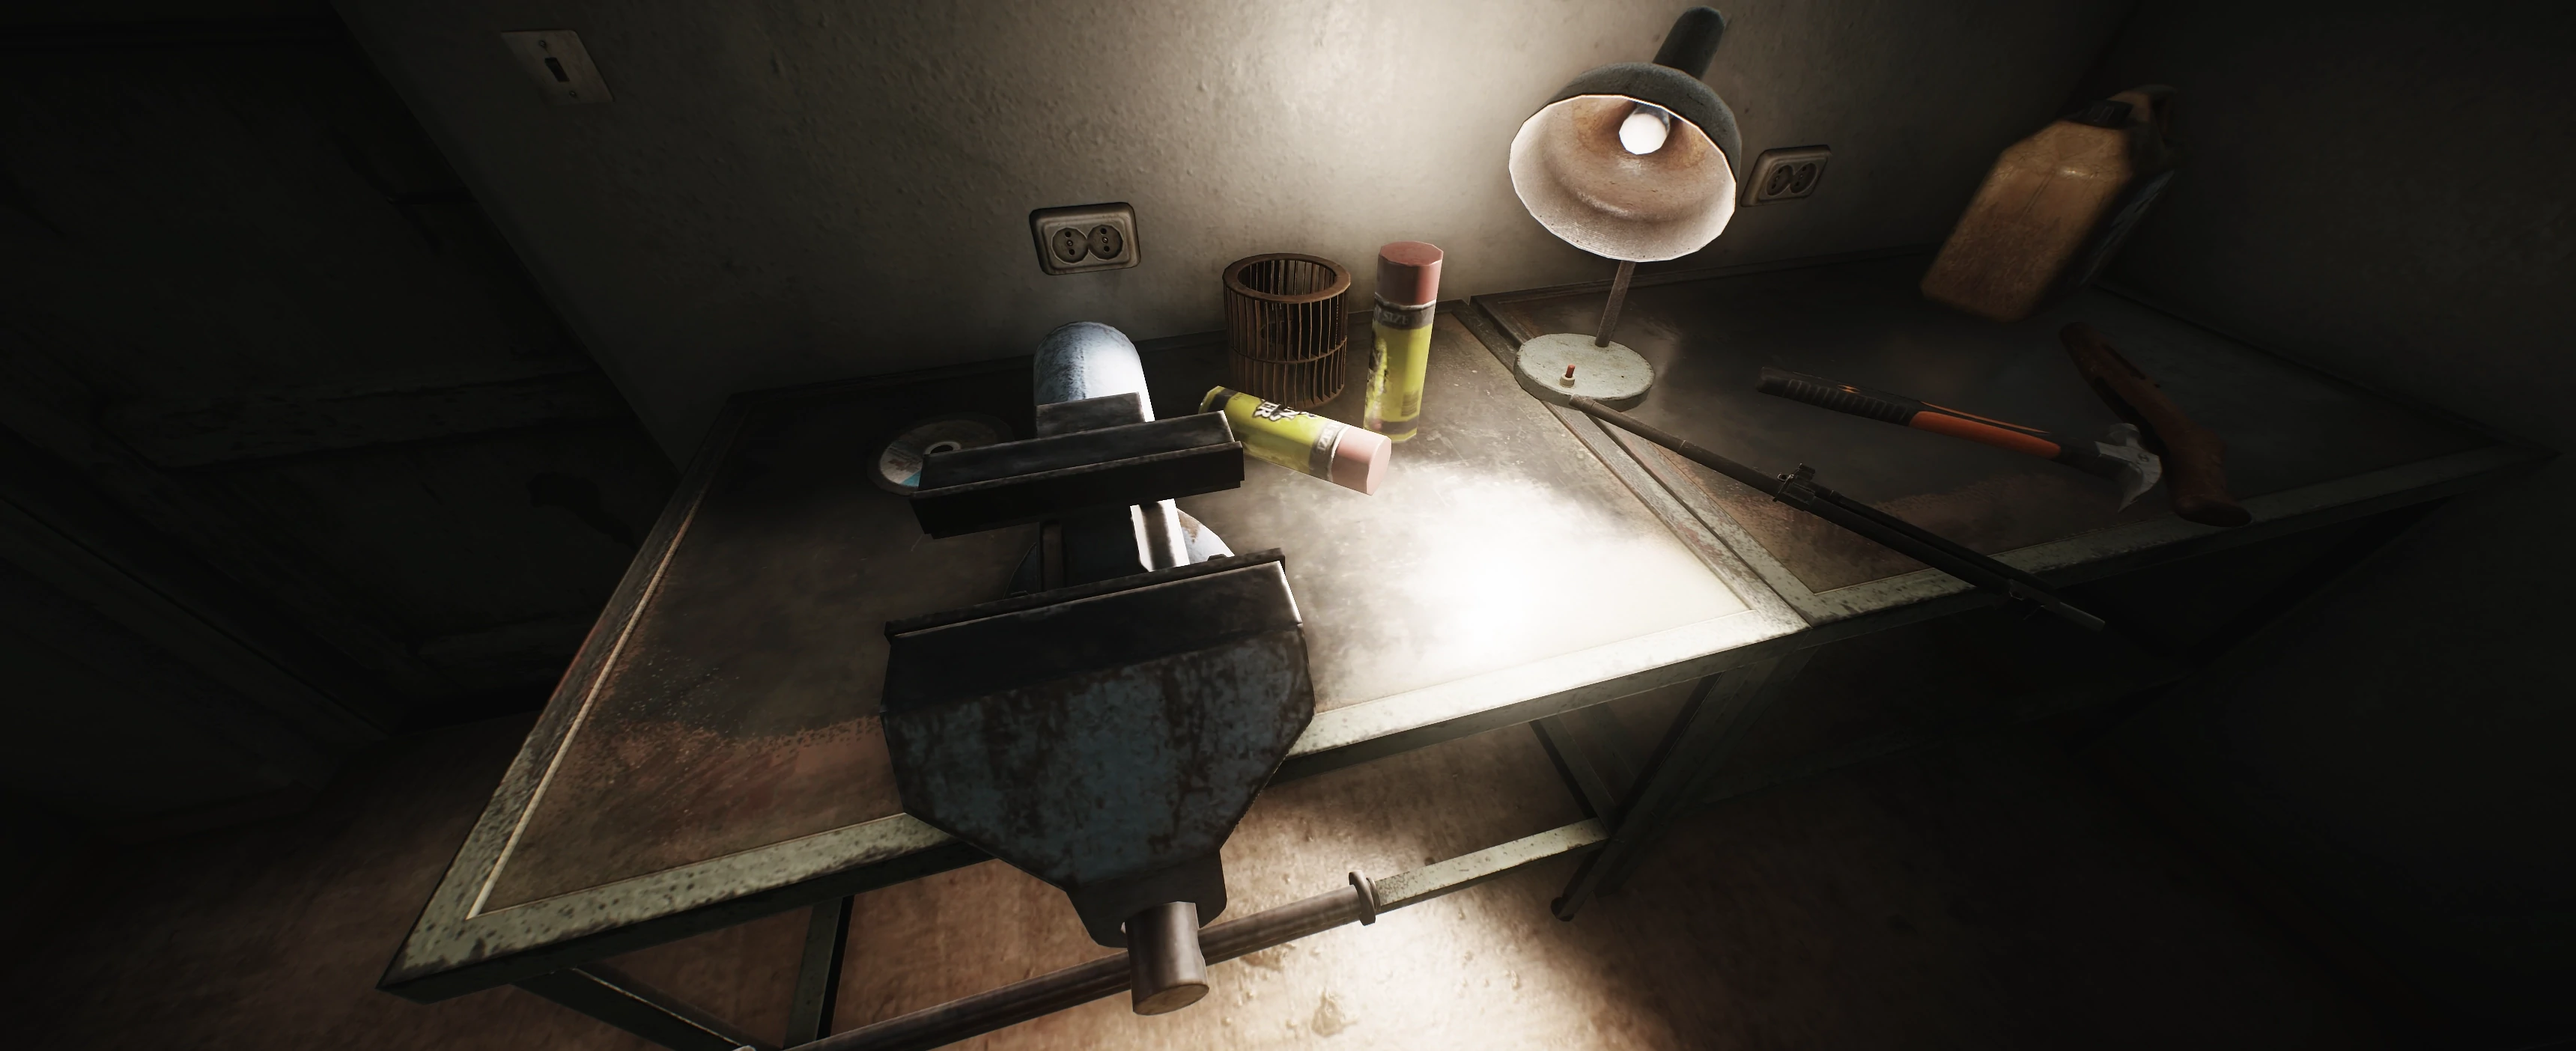
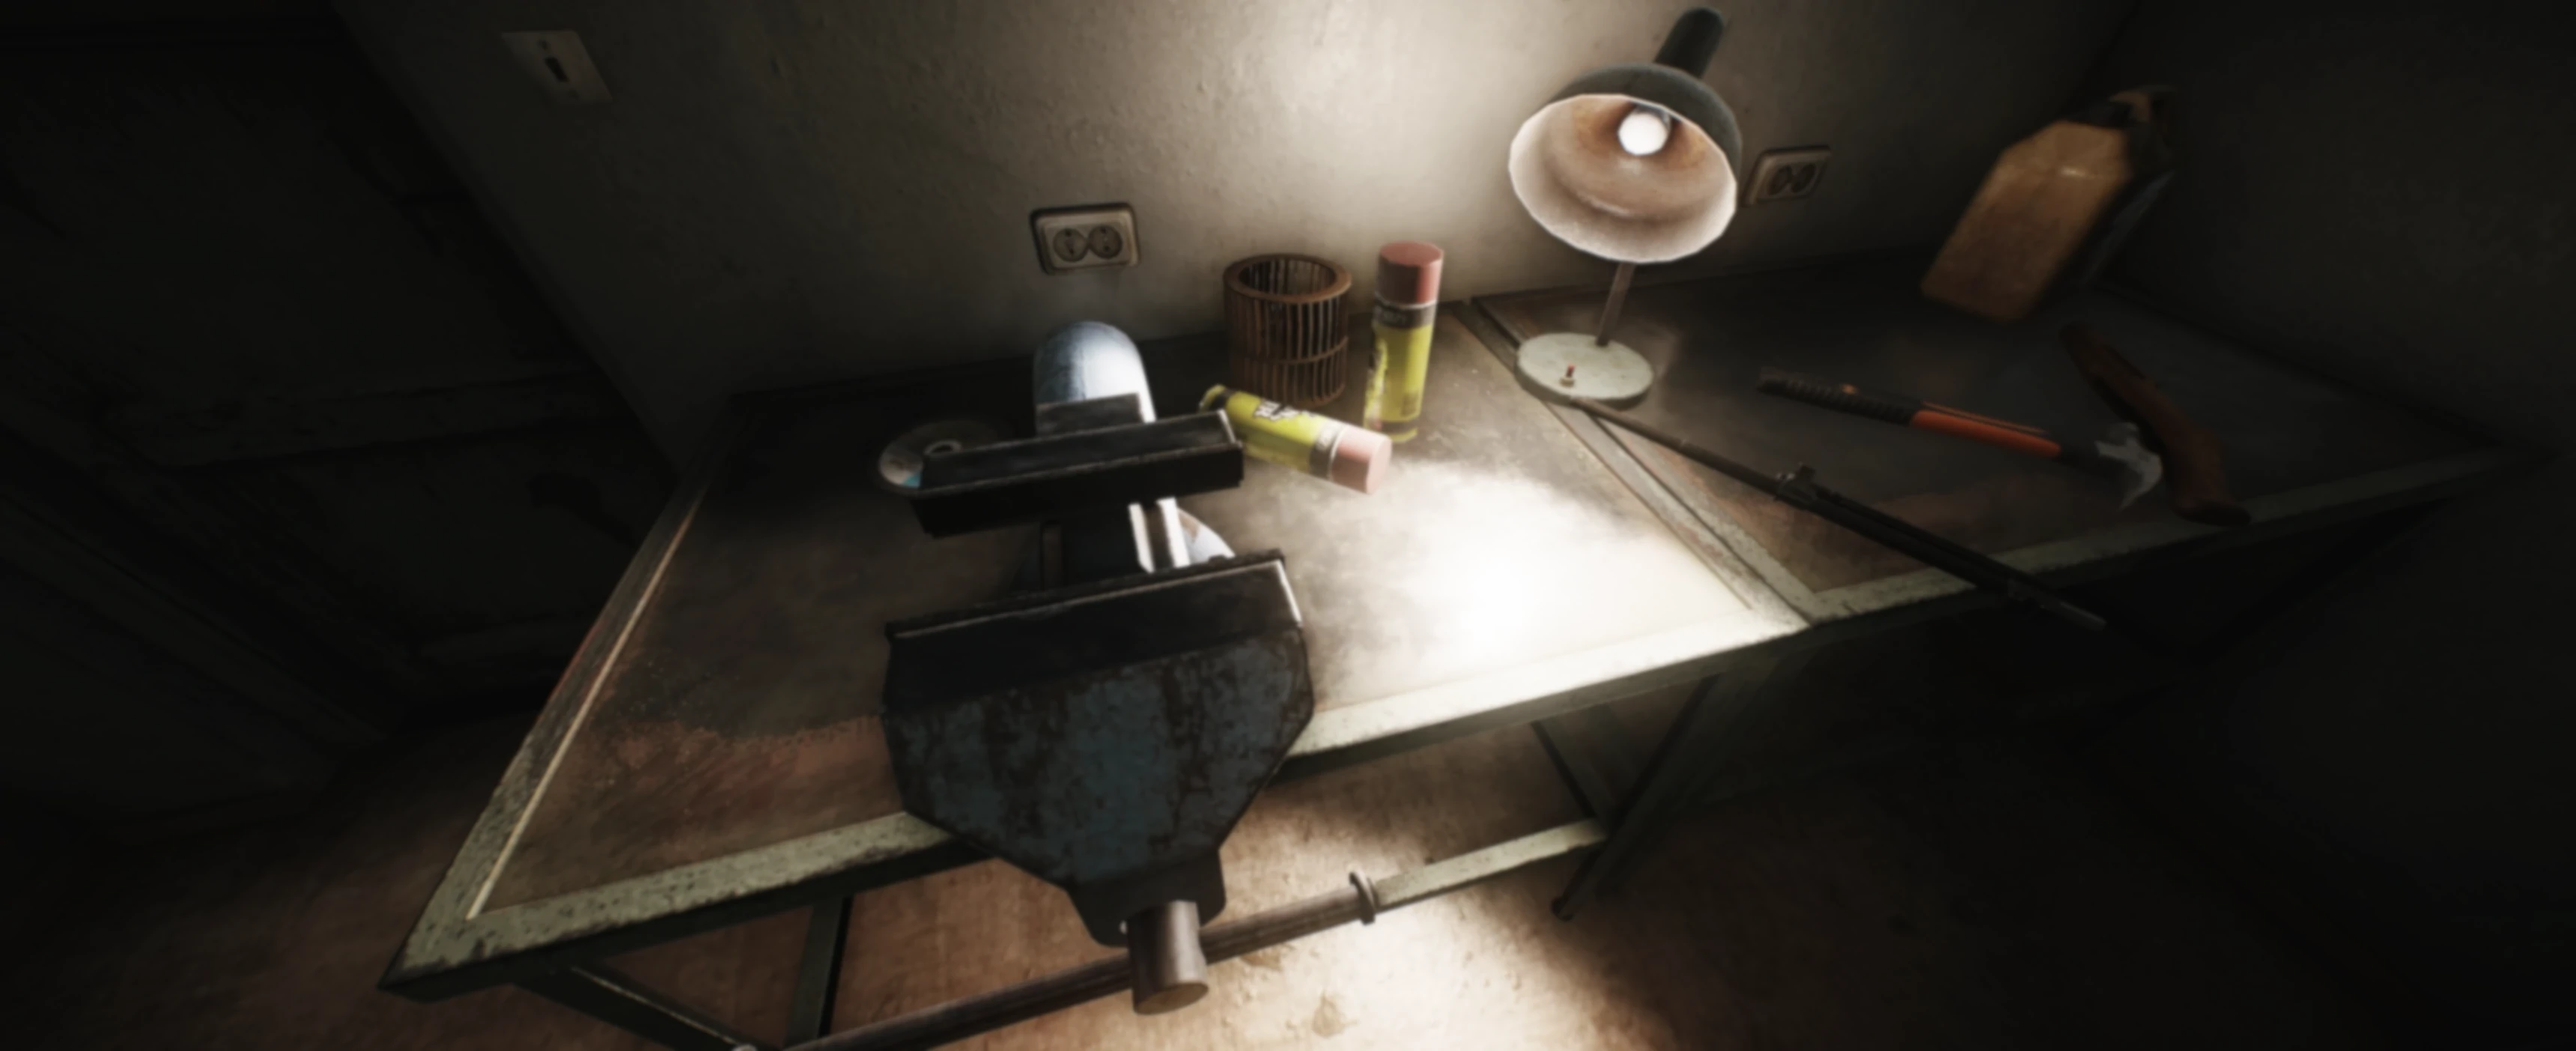
Removed blur filter to improve performances on mobile.
Replaced the background image by a blured version.

diff --git a/src/components/ToolbarComponent.vue b/src/components/ToolbarComponent.vue
@@ -1,8 +1,8 @@
 <template>
   <Sticky
     ref="stickyElement"
-    v-model:isInGlobalSidebar="isInGlobalSidebar"
-    v-model:isStickied="isStickied"
+    v-model:is-in-global-sidebar="isInGlobalSidebar"
+    v-model:is-stickied="isStickied"
     class="toolbar-container"
     width="fill"
   >
@@ -150,8 +150,7 @@ function setButtonsAreHidden() {
 @import '../css/icon.css';
 
 .toolbar {
-  backdrop-filter: blur(10px);
-  background-color: rgba(18, 18, 18, 0.85);
+  background-color: var(--surface-50);
   border-color: var(--primary-color6);
   border-radius: 6px;
   border-style: solid;

diff --git a/src/components/AppComponent.vue b/src/components/AppComponent.vue
@@ -273,7 +273,6 @@ function setLanguage() {
 <style>
 body {
   background-color: var(--surface-transparent-0);
-  backdrop-filter: blur(2px);
   /* Required for the #app to be able to use height:100% */
   display: flex;
   font-size: 1rem;
@@ -295,7 +294,6 @@ h1 {
 html {
   -moz-osx-font-smoothing: grayscale;
   -webkit-font-smoothing: antialiased;
-  background-color: var(--surface-0);
   background-image: url('../../assets/images/Background.webp');
   background-position: center;
   background-repeat: no-repeat;

diff --git a/src/components/item/ItemComponent.vue b/src/components/item/ItemComponent.vue
@@ -85,7 +85,7 @@
       </div>
       <SelectedItemFunctionalities
         v-if="inventoryItemInternal != null && item != null"
-        v-model:selectedTab="selectedTab"
+        v-model:selected-tab="selectedTab"
         :can-be-looted="canBeLooted"
         :can-have-content="itemIsContainer"
         :can-have-mods="itemIsModdable && !isBaseItem"

diff --git a/src/components/build/BuildComponent.css b/src/components/build/BuildComponent.css
@@ -68,10 +68,7 @@
 
 .build-summary {
   align-items: center;
-  /* Same blur as the toolbar */
-  backdrop-filter: blur(10px);
-  /* Same color as the toolbar */
-  background-color: rgba(18, 18, 18, 0.85);
+  background-color: var(--surface-50);
   border-color: var(--primary-color6);
   border-radius: 6px;
   border-style: solid;

diff --git a/src/components/build/BuildComponent.vue b/src/components/build/BuildComponent.vue
@@ -57,7 +57,7 @@
       </template>
     </Toolbar>
     <Sticky
-      v-model:isStickied="isBuildSummaryStickied"
+      v-model:is-stickied="isBuildSummaryStickied"
       align="center"
       :element-to-stick-to="toolbarContainer"
       class="build-summary-container"
